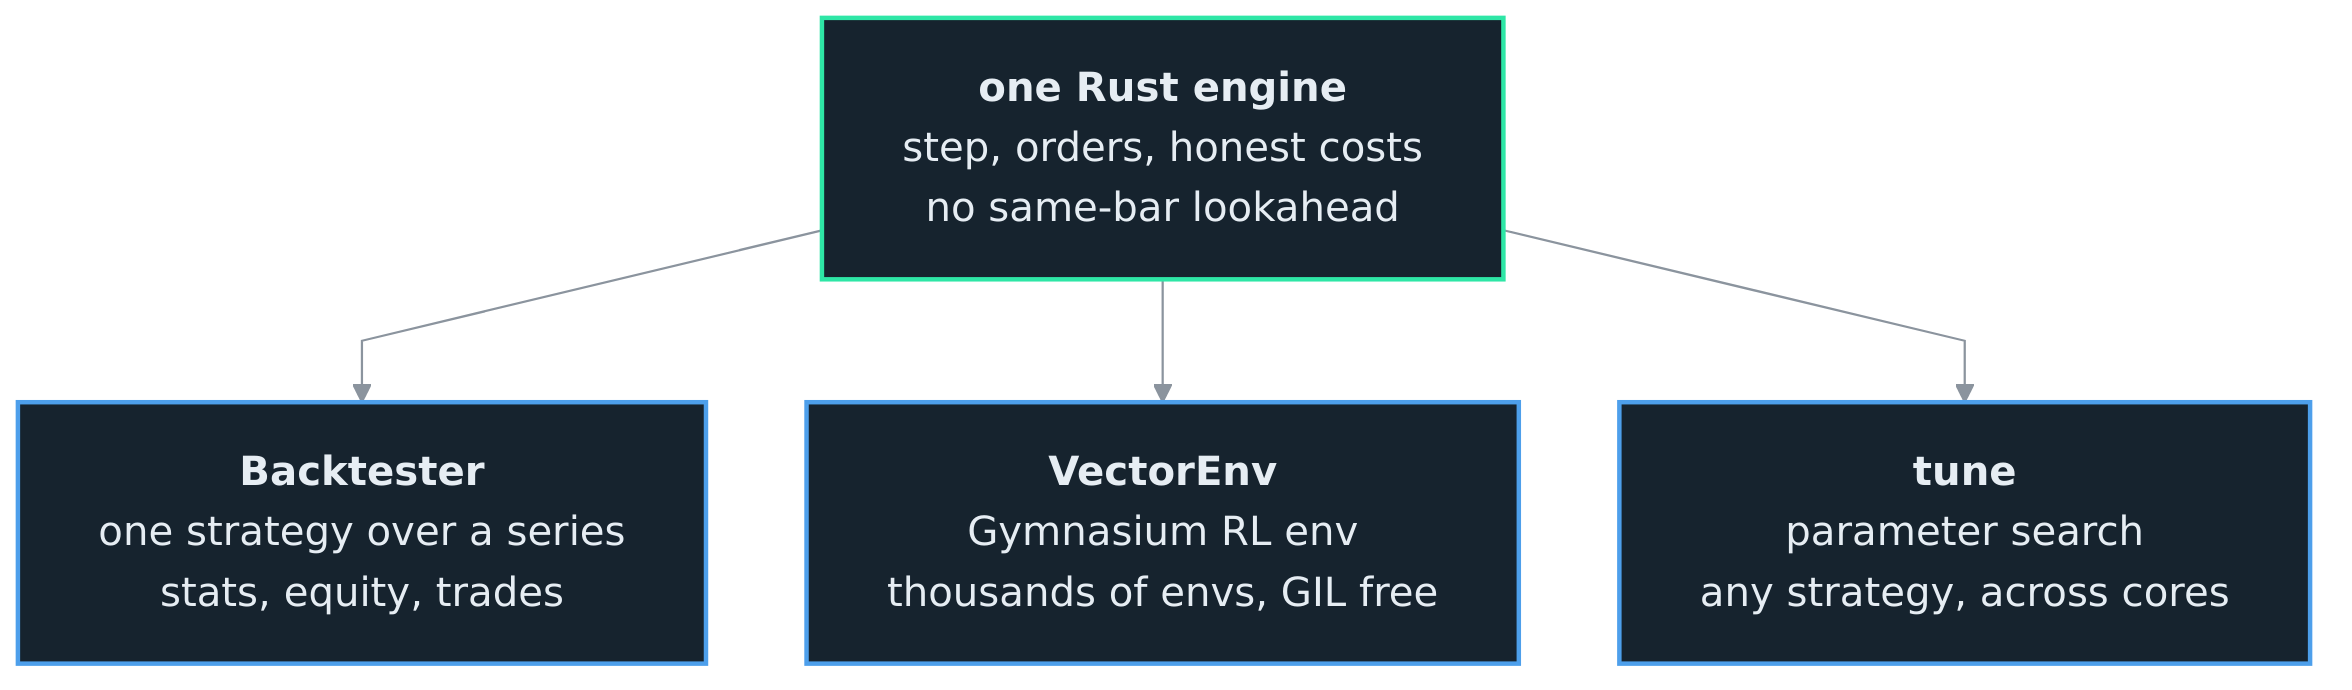
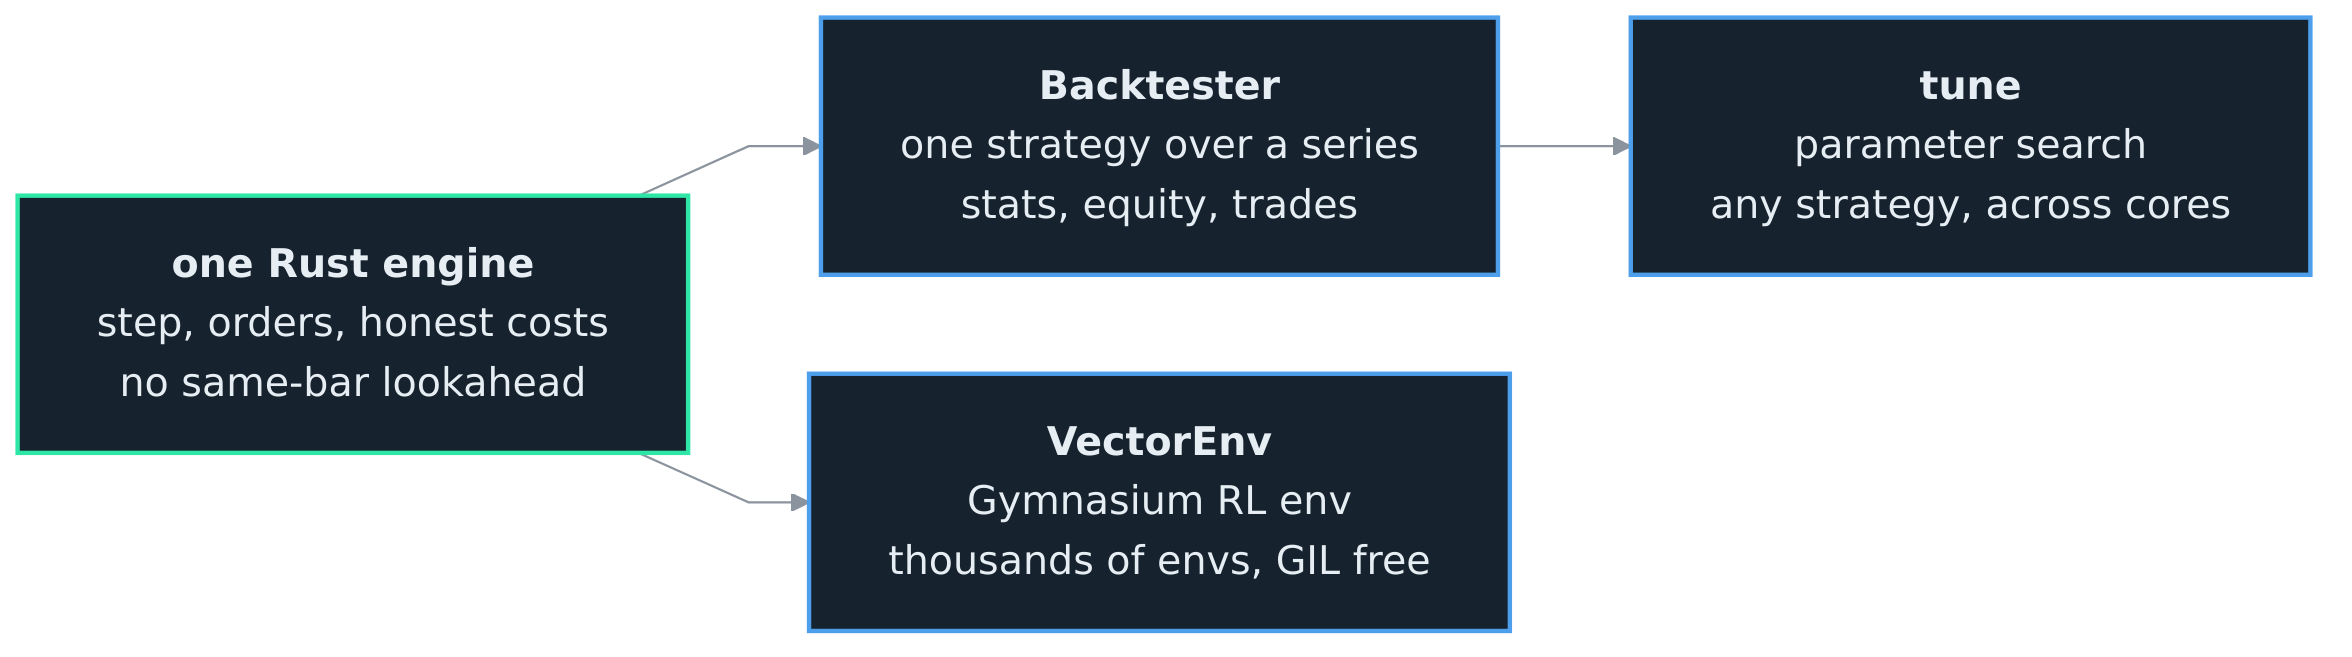
docs,dev: hang tune off the backtester it actually calls (ADR 0116)
- dev/diagrams/205310.mmd: _tune.py imports Backtester and never the engine, so
  the hero drew an edge that exists nowhere in the code; LR holds the banner the
  README opens with, which re-parenting alone turned into a tall L
- .Documentation/imgs/205310.png: re-rendered at the pinned digest, and the other
  four came back byte identical, which is what says this is the only change
- .Documentation/Decisions.md: 0116, because the caption was true while the shape
  was false, and that is the version of the mistake a reader cannot catch
- .Documentation/Contributor_Guide.md: the stage copies the sources at build time,
  so rerunning the render alone redraws a stale tree and says it succeeded

diff --git a/.Documentation/Decisions.md b/.Documentation/Decisions.md
@@ -294,3 +294,5 @@ The library is a stack of layers, and the one rule is that logic flows up, never
 
 **The seam is about policy, not geometry (0115).** ADR 0043 put the seam at "no colours, no thresholds, no formatting policy and no maths" in the JavaScript, `core.js` opened with that sentence as its own contract, and the Contributor Guide stated it as fact. All three were false in the same way. The axis grain thresholds, the number locale and grouping, the whole timestamp format and two precision maps ship on that side and always did, and the gate written to enforce the rule greps `_static` for `#` and `rgba(` alone, so it passed while a background alpha was being built by concatenating a byte onto a theme colour in two places that have to agree. A rule stated more strongly than it is kept is worse than a weaker rule kept exactly, because the reader who believes it stops checking. The line that actually holds, and that ADR 0043 was reaching for, is between what a reader could disagree with and what only the renderer knows. A colour is the first kind, and so is any number derived from the data: a threshold in bars, an alpha, a rounding rule for a price. Bar spacing measured in device pixels is the second, and so is a locale, because those are questions about the surface being painted rather than about the run being drawn, and Python cannot answer them without knowing the viewport. So the alpha moves into `spec.theme` as a full colour, which also collapses the two copies that had to agree into one; the claim in `core.js` and in the guide is rewritten to what holds; and the gate widens to the concatenation shape that slipped past it.
  One reading was already on that side and went unnamed: the equity legend divides the hovered value by the first equity point to show a return, which is a second derived number where ADR 0042 claims one. It stays, because it is a function of which bar the pointer is on and Python is not standing there, and it is the same kind as the drawdown that decision already allows, a second view of a number the engine returned rather than a statistic about the data.
+
+**An arrow in a diagram is an import, and the caption carries anything looser (0116).** The README hero drew `tune` as a third child of the engine beside `Backtester` and `VectorEnv`, and `_tune.py` does not import the engine at all: it imports `Backtester` and constructs one in four places, so it is a child of the backtester and a grandchild of the engine, and the edge the picture drew exists nowhere in the code. The package docstring had it right the whole time, three lines into `__init__.py`, and the contradiction still survived to a release. What let it survive is that the claim the image exists to make is true: tune does run on the same engine and the same costs, and the caption saying so was never wrong. A picture whose caption is true and whose edges are false is the hard case, because the reader who checks the caption stops there, and the reader who trusts the shape learns a structure the code does not have. So an arrow here means one module reaching for another, and a looser relation belongs in the caption, where a sentence can qualify it and a line cannot. Re-parenting turned three across into an L and nearly doubled the height of the one image the README opens with, which is why the hero is now `flowchart LR`: the direction is chosen to hold the banner the page was built around, and it carries no meaning of its own. `walk_forward` stands in the same relation to `Backtester` and is still not drawn, which is a question about what a hero should carry rather than about what is true.

diff --git a/.Documentation/Contributor_Guide.md b/.Documentation/Contributor_Guide.md
@@ -90,6 +90,8 @@ docker build --target diagrams -t emsl-diagrams .
 docker run --rm --shm-size=1g -v "${PWD}/.Documentation:/out" emsl-diagrams
 ```
 
+Both commands, every time. The stage copies `dev/diagrams` in at build time, so rerunning the second one alone renders whatever source the last build captured, and it prints the same `rendered` lines while doing it.
+
 The images are numbered rather than named and the descriptive name survives only in their alt text: 205310 is the README hero, 205312 the crate layering, 205314 the step lifecycle, 205316 no-lookahead, 205318 the RL loop. Four of the five were reconstructed by reading the rendered PNG, because the originals were never kept, so a rerun redraws them rather than reproducing them byte for byte; 205314 is the one whose source survived and it still renders identical, which is what says the pipeline is faithful rather than merely working.
 
 The renderer is pinned to a digest in the Dockerfile rather than tracked as `latest`, which is what makes a rerun evidence rather than a coin flip: `latest` and the version tag are different images, and the tag names the mermaid release rather than the `mmdc` build inside it. At this digest all five come back byte identical, not merely at the same dimensions. That is a property of these five rather than of mermaid, and the router's set is the counterexample worth knowing about: anti-aliasing along a stadium node's rounded outline lands a few edge pixels differently between runs, so the five diagrams there that use one are visually identical and never byte identical. None of the diagrams here use that shape.
